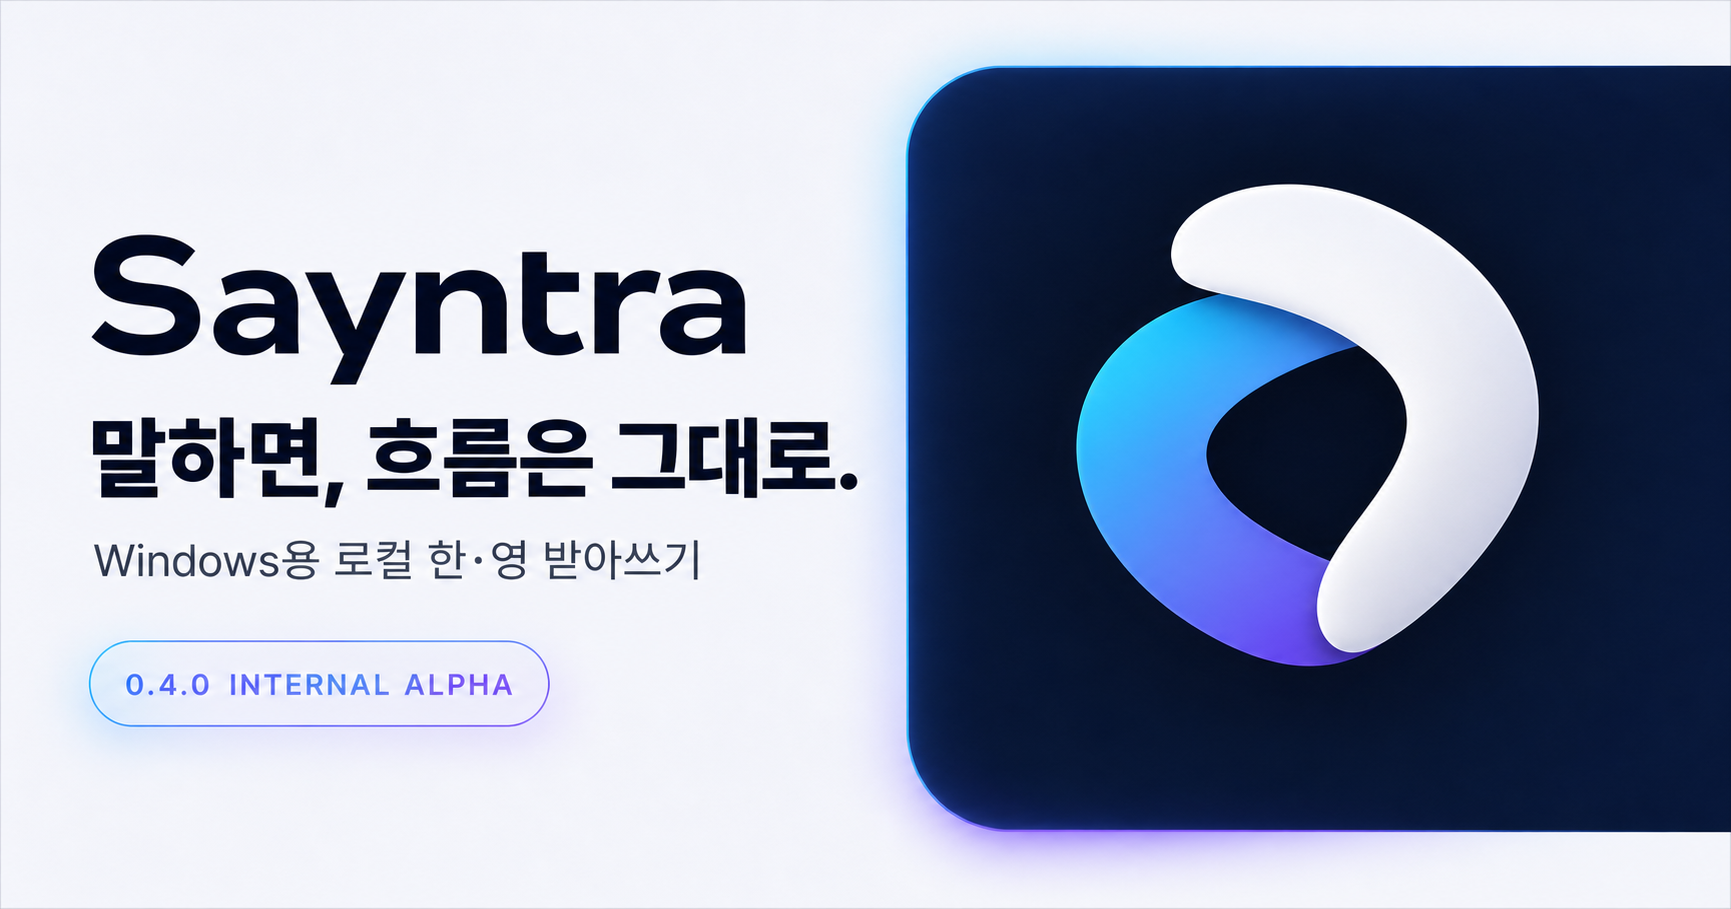
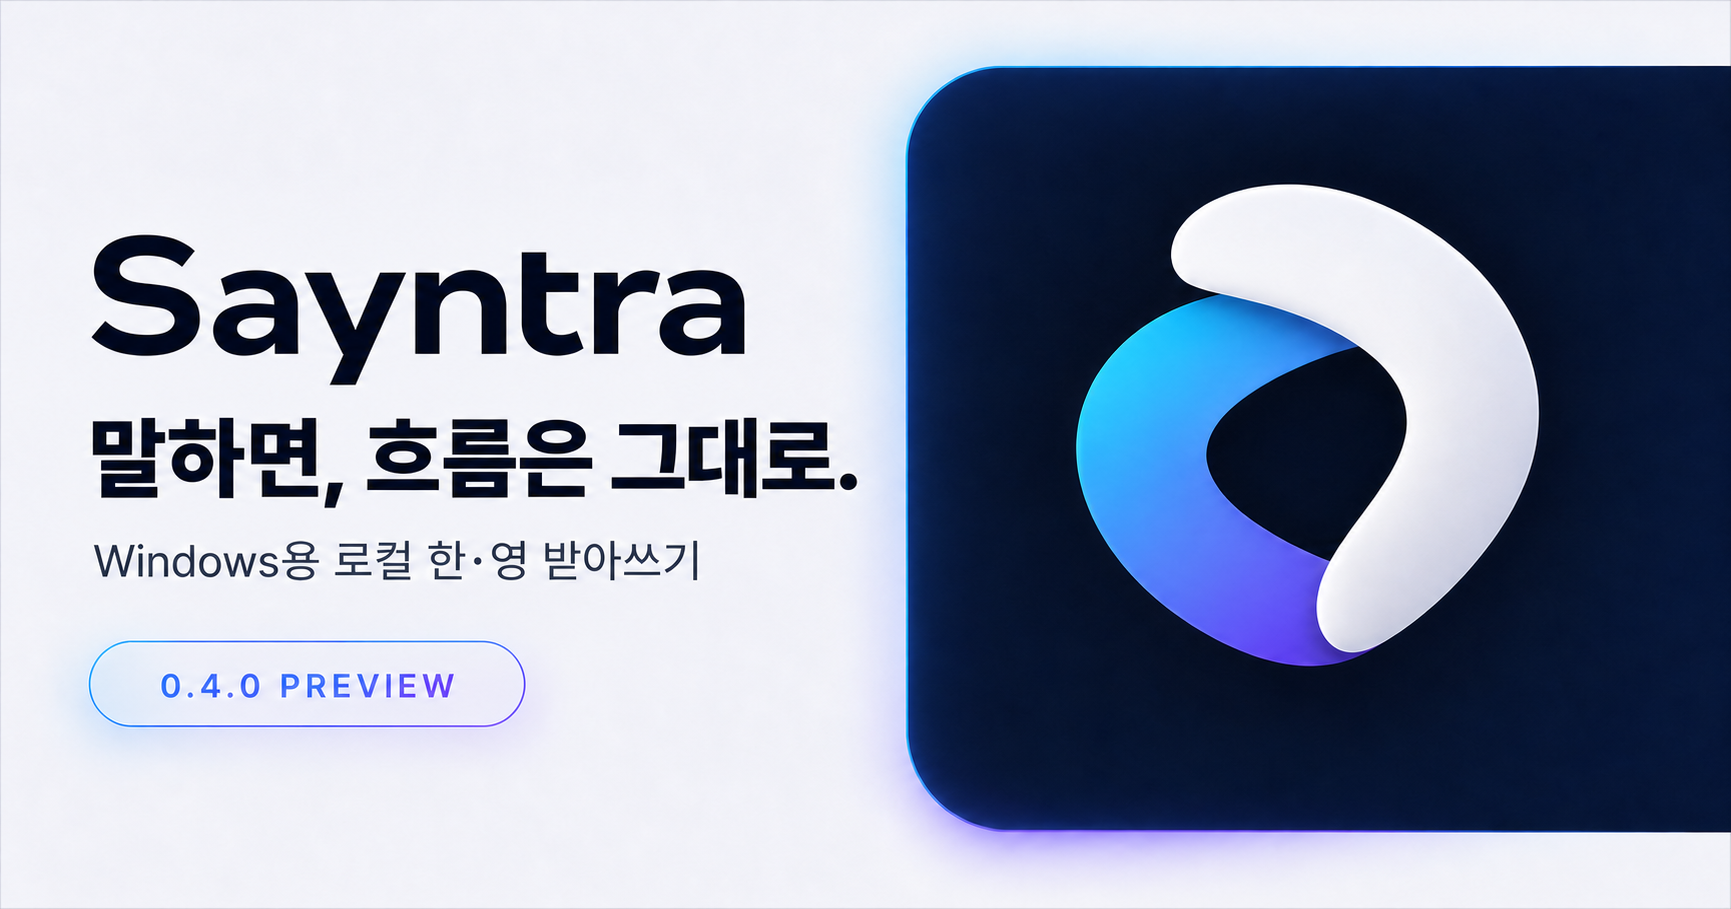
Rename Sayntra Windows download labels

diff --git a/index.html b/index.html
@@ -1,2 +1,2 @@
-<!DOCTYPE html><html lang="ko"><head><meta charSet="utf-8"/><meta name="viewport" content="width=device-width, initial-scale=1"/><link rel="preload" href="/Sayntra-Downloads/sayntra-orbit-knot.png" as="image"/><link rel="stylesheet" href="/Sayntra-Downloads/assets/index-BTExh9G_.css" data-rsc-css-href="/Sayntra-Downloads/assets/index-BTExh9G_.css" data-precedence="vite-rsc/importer-resources"/><title>Sayntra — Windows용 로컬 한·영 받아쓰기</title><meta name="description" content="한국어·영어 음성을 PC 안에서 텍스트로 바꾸고, 안전 조건이 맞을 때만 현재 입력창으로 Ctrl+V를 보내는 Windows 로컬 받아쓰기 앱."/><meta property="og:title" content="Sayntra — 말하면, 흐름은 그대로."/><meta property="og:description" content="한국어·영어 음성을 텍스트로 바꾸는 Windows 로컬 받아쓰기 · 0.4.0 Internal Alpha"/><meta property="og:site_name" content="Sayntra"/><meta property="og:type" content="website"/><meta property="og:locale" content="ko_KR"/><meta property="og:image" content="https://hooreya1.github.io/Sayntra-Downloads/og.png"/><meta property="og:image:width" content="1200"/><meta property="og:image:height" content="630"/><meta property="og:image:alt" content="Sayntra Windows 로컬 받아쓰기"/><meta name="twitter:card" content="summary_large_image"/><meta name="twitter:title" content="Sayntra — 말하면, 흐름은 그대로."/><meta name="twitter:description" content="한국어·영어 음성을 텍스트로 바꾸는 Windows 로컬 받아쓰기 · 0.4.0 Internal Alpha"/><meta name="twitter:image" content="https://hooreya1.github.io/Sayntra-Downloads/og.png"/><link rel="shortcut icon" href="https://hooreya1.github.io/Sayntra-Downloads/sayntra-orbit-knot.png"/><link rel="icon" href="https://hooreya1.github.io/Sayntra-Downloads/sayntra-orbit-knot.png"/><link rel="apple-touch-icon" href="https://hooreya1.github.io/Sayntra-Downloads/sayntra-orbit-knot.png"/><meta name="theme-color" content="#f7f8fc"/>
[1 lines of base64/hex data omitted]
+<!DOCTYPE html><html lang="ko"><head><meta charSet="utf-8"/><meta name="viewport" content="width=device-width, initial-scale=1"/><link rel="preload" href="/Sayntra-Downloads/sayntra-orbit-knot.png" as="image"/><link rel="stylesheet" href="/Sayntra-Downloads/assets/index-BTExh9G_.css" data-rsc-css-href="/Sayntra-Downloads/assets/index-BTExh9G_.css" data-precedence="vite-rsc/importer-resources"/><title>Sayntra — Windows용 로컬 한·영 받아쓰기</title><meta name="description" content="한국어·영어 음성을 PC 안에서 텍스트로 바꾸고, 안전 조건이 맞을 때만 현재 입력창으로 Ctrl+V를 보내는 Windows 로컬 받아쓰기 앱."/><meta property="og:title" content="Sayntra — 말하면, 흐름은 그대로."/><meta property="og:description" content="한국어·영어 음성을 텍스트로 바꾸는 Windows 로컬 받아쓰기 · 0.4.0 Preview"/><meta property="og:site_name" content="Sayntra"/><meta property="og:type" content="website"/><meta property="og:locale" content="ko_KR"/><meta property="og:image" content="https://hooreya1.github.io/Sayntra-Downloads/og.png"/><meta property="og:image:width" content="1200"/><meta property="og:image:height" content="630"/><meta property="og:image:alt" content="Sayntra Windows 로컬 받아쓰기"/><meta name="twitter:card" content="summary_large_image"/><meta name="twitter:title" content="Sayntra — 말하면, 흐름은 그대로."/><meta name="twitter:description" content="한국어·영어 음성을 텍스트로 바꾸는 Windows 로컬 받아쓰기 · 0.4.0 Preview"/><meta name="twitter:image" content="https://hooreya1.github.io/Sayntra-Downloads/og.png"/><link rel="shortcut icon" href="https://hooreya1.github.io/Sayntra-Downloads/sayntra-orbit-knot.png"/><link rel="icon" href="https://hooreya1.github.io/Sayntra-Downloads/sayntra-orbit-knot.png"/><link rel="apple-touch-icon" href="https://hooreya1.github.io/Sayntra-Downloads/sayntra-orbit-knot.png"/><meta name="theme-color" content="#f7f8fc"/>
[1 lines of base64/hex data omitted]
